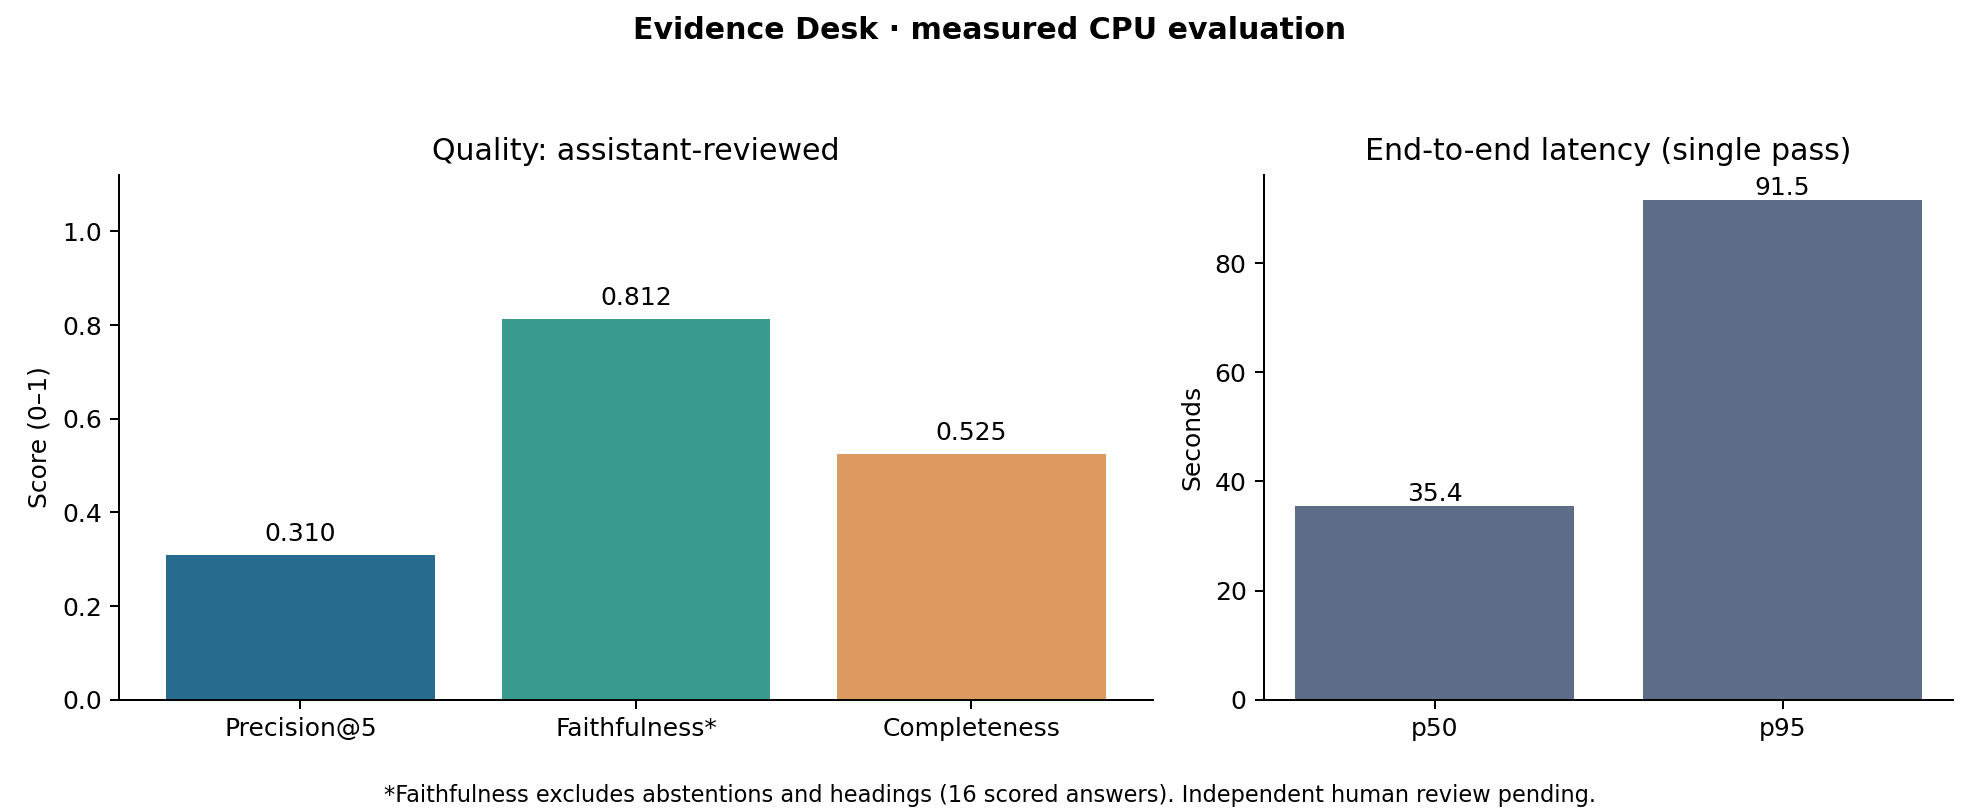
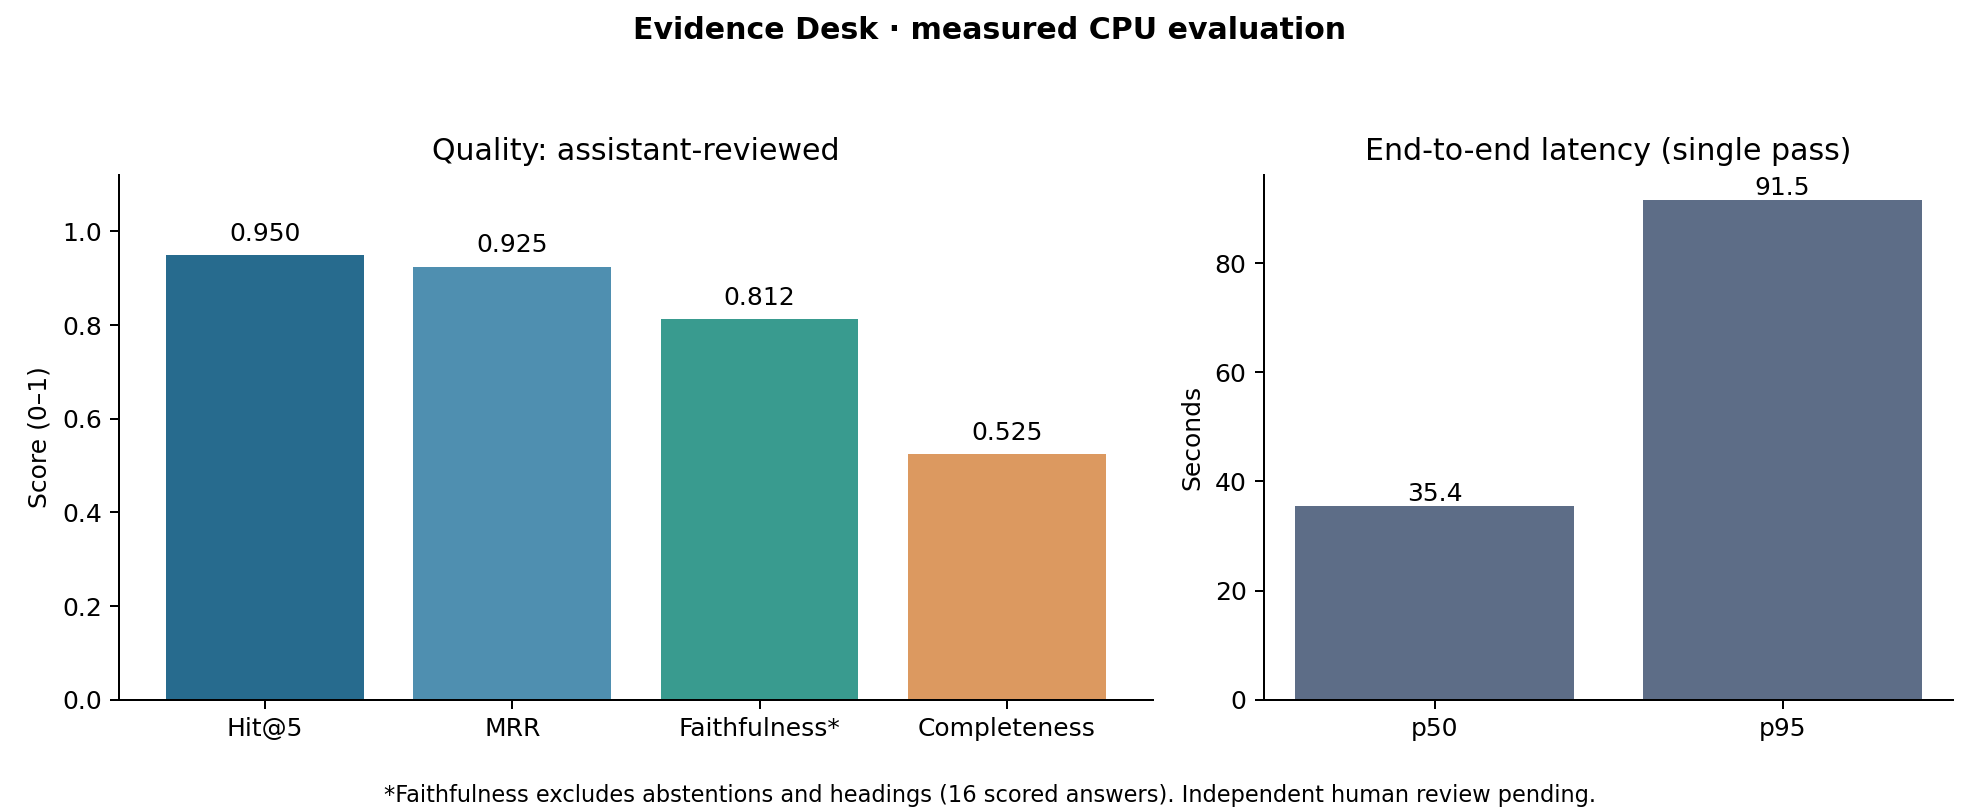
eval: hit@k, MRR, status split and quote-anchored recall; regenerate results from the recorded run

diff --git a/grounded_qa/evaluation/report.py b/grounded_qa/evaluation/report.py
@@ -12,6 +12,10 @@ from grounded_qa.evaluation.metrics import (
     precision_at_k,
     faithfulness,
     evidence_coverage,
+    evidence_coverage_by_quote,
+    final_status,
+    hit_at_k,
+    reciprocal_rank,
 )
 
 
@@ -57,6 +61,19 @@ def main():
                 "p5": precision_at_k(set(review["relevant_chunk_ids"]), ids, 5)
                 if q["answerable"]
                 else None,
+                "hit5": hit_at_k(set(review["relevant_chunk_ids"]), ids, 5)
+                if q["answerable"]
+                else None,
+                "hit3": hit_at_k(set(review["relevant_chunk_ids"]), ids, 3)
+                if q["answerable"]
+                else None,
+                "rr": reciprocal_rank(set(review["relevant_chunk_ids"]), ids)
+                if q["answerable"]
+                else None,
+                "recall_by_quote": evidence_coverage_by_quote(
+                    q["gold_evidence"], result["retrieved"]
+                ),
+                "status": final_status(result),
                 "faithfulness": f,
                 "completeness": review["correct_facts"] / len(q["required_facts"])
                 if q["required_facts"]
@@ -76,6 +93,11 @@ def main():
                 "p1": None,
                 "p3": None,
                 "p5": None,
+                "hit5": None,
+                "hit3": None,
+                "rr": None,
+                "recall_by_quote": None,
+                "status": "error",
                 "faithfulness": None,
                 "completeness": 0 if q["answerable"] else None,
                 "evidence_recall": None,
@@ -103,6 +125,18 @@ def main():
         "precision_at_3": mean([r["p3"] for r in rows if r["p3"] is not None]),
         "precision_at_5": mean(ps),
         "retrieval_scored_queries": len(ps),
+        "hit_at_3": mean([r["hit3"] for r in rows if r["hit3"] is not None]),
+        "hit_at_5": mean([r["hit5"] for r in rows if r["hit5"] is not None]),
+        "mrr": mean([r["rr"] for r in rows if r["rr"] is not None]),
+        "gold_span_recall_at_5_by_quote": mean(
+            [r["recall_by_quote"] for r in rows if r["recall_by_quote"] is not None]
+        ),
+        "answered": sum(r["status"] == "answered" for r in rows),
+        "model_abstentions": sum(r["status"] == "abstained" for r in rows),
+        "validation_rejections": sum(r["status"] == "rejected" for r in rows),
+        "model_abstentions_on_unanswerable": sum(
+            r["status"] == "abstained" for r in unanswerable
+        ),
         "gold_span_recall_at_5": mean(
             [r["evidence_recall"] for r in rows if r["evidence_recall"] is not None]
         ),
@@ -161,14 +195,15 @@ def main():
         1, 2, figsize=(11, 4.5), gridspec_kw={"width_ratios": [1.5, 1]}
     )
     values = [
-        summary["precision_at_5"],
+        summary["hit_at_5"],
+        summary["mrr"],
         summary["faithfulness_macro"],
         summary["completeness"],
     ]
     bars = axes[0].bar(
-        ["Precision@5", "Faithfulness*", "Completeness"],
+        ["Hit@5", "MRR", "Faithfulness*", "Completeness"],
         [v or 0 for v in values],
-        color=["#276b8e", "#399b8f", "#dc9960"],
+        color=["#276b8e", "#4f8fb0", "#399b8f", "#dc9960"],
     )
     axes[0].set_ylim(0, 1.12)
     axes[0].set_ylabel("Score (0–1)")

diff --git a/grounded_qa/evaluation/metrics.py b/grounded_qa/evaluation/metrics.py
@@ -29,3 +29,37 @@ def evidence_coverage(gold, retrieved):
             for h in retrieved
         )
     return covered / len(gold)
+
+
+def hit_at_k(relevant_ids, retrieved_ids, k):
+    """1.0 if any judged-relevant chunk is in the top k. Unlike P@k, not capped by the
+    number of relevant chunks that exist (most questions here have exactly one)."""
+    ids = list(dict.fromkeys(retrieved_ids))[:k]
+    return float(any(i in relevant_ids for i in ids))
+
+
+def reciprocal_rank(relevant_ids, retrieved_ids):
+    for rank, i in enumerate(dict.fromkeys(retrieved_ids), 1):
+        if i in relevant_ids:
+            return 1 / rank
+    return 0.0
+
+
+def evidence_coverage_by_quote(gold, retrieved):
+    """Like evidence_coverage, but anchored on the gold quote text rather than parser
+    character offsets, so a parser change cannot silently move the labels."""
+    from grounded_qa.citations import fold
+
+    if not gold:
+        return None
+    texts = [fold(h["text"]) for h in retrieved]
+    return sum(any(fold(g["quote"]) in t for t in texts) for g in gold) / len(gold)
+
+
+def final_status(result):
+    """Status for runs recorded before the `status` field existed."""
+    if "status" in result:
+        return result["status"]
+    if not result["abstain"]:
+        return "answered"
+    return "abstained" if result["reason"] == "Insufficient evidence" else "rejected"

diff --git a/tests/test_metrics.py b/tests/test_metrics.py
@@ -27,3 +27,24 @@ def test_page_only_match_is_insufficient():
         )
         == 0
     )
+
+
+def test_rank_metrics_and_quote_anchored_coverage():
+    from grounded_qa.evaluation.metrics import (
+        evidence_coverage_by_quote,
+        hit_at_k,
+        reciprocal_rank,
+    )
+
+    assert hit_at_k({"b"}, ["a", "b", "c"], 1) == 0.0
+    assert hit_at_k({"b"}, ["a", "b", "c"], 2) == 1.0
+    assert reciprocal_rank({"b"}, ["a", "b"]) == 0.5
+    assert reciprocal_rank({"z"}, ["a", "b"]) == 0.0
+    gold = [{"quote": "voluntary, rights-preserving"}]
+    assert (
+        evidence_coverage_by_quote(
+            gold, [{"text": "It is\nvoluntary, rights-preserving."}]
+        )
+        == 1.0
+    )
+    assert evidence_coverage_by_quote(gold, [{"text": "mandatory"}]) == 0.0

diff --git a/evaluation/results/RESULTS.md b/evaluation/results/RESULTS.md
@@ -40,6 +40,14 @@ Labels are assistant-reviewed, not independent human judgments. Faithfulness is 
 | precision_at_3 | 0.433 |
 | precision_at_5 | 0.310 |
 | retrieval_scored_queries | 20 |
+| hit_at_3 | 0.950 |
+| hit_at_5 | 0.950 |
+| mrr | 0.925 |
+| gold_span_recall_at_5_by_quote | 0.850 |
+| answered | 18 |
+| model_abstentions | 0 |
+| validation_rejections | 6 |
+| model_abstentions_on_unanswerable | 0 |
 | gold_span_recall_at_5 | 0.850 |
 | faithfulness_macro | 0.812 |
 | faithfulness_scored_answers | 16 |
